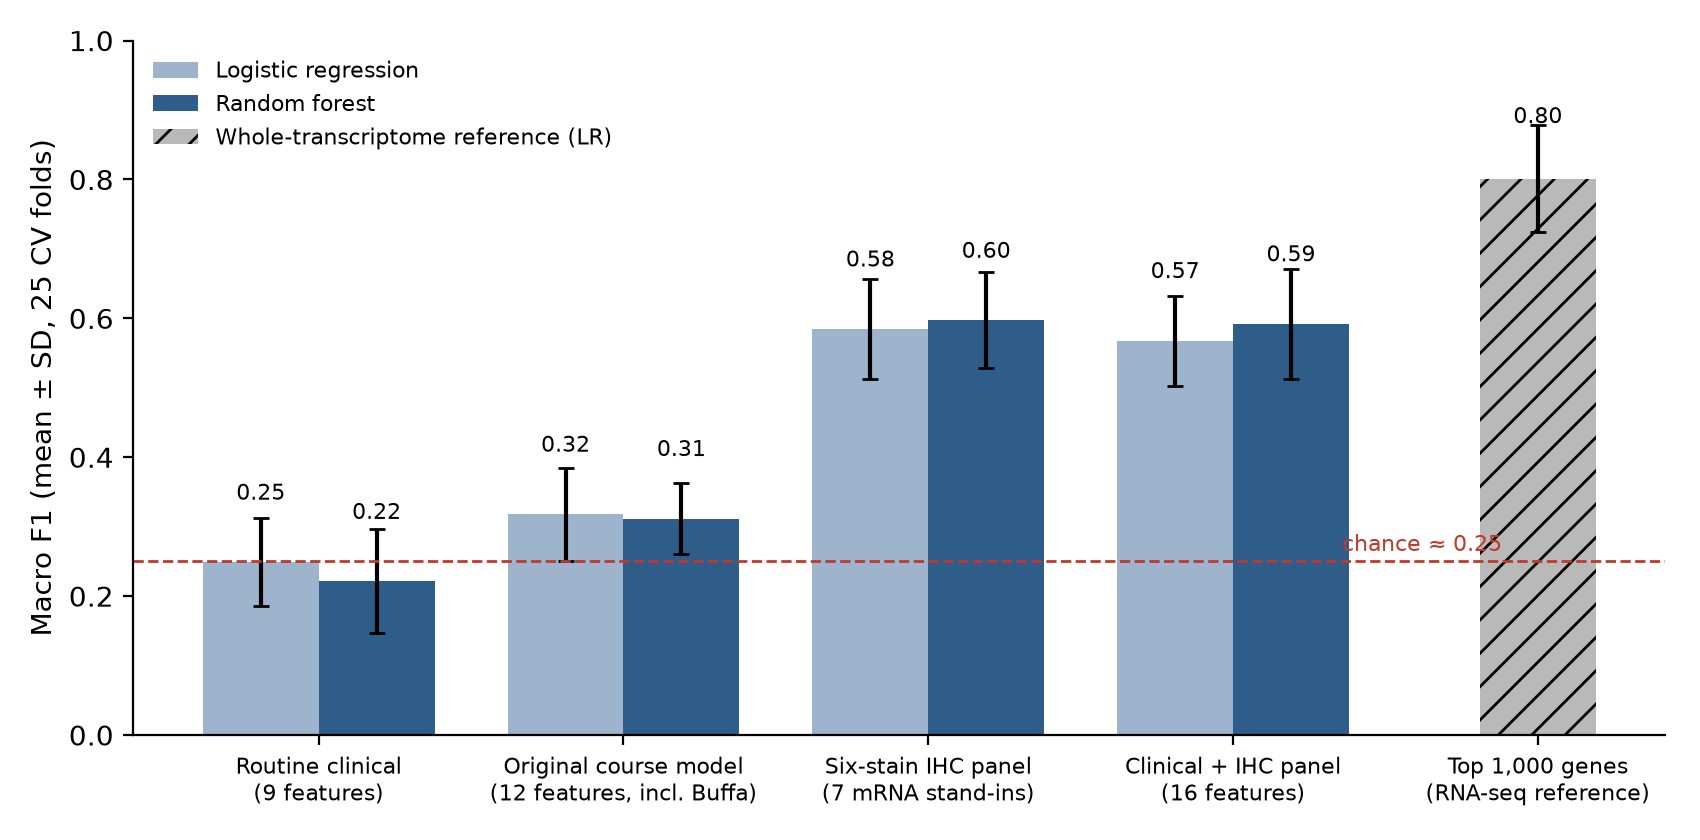
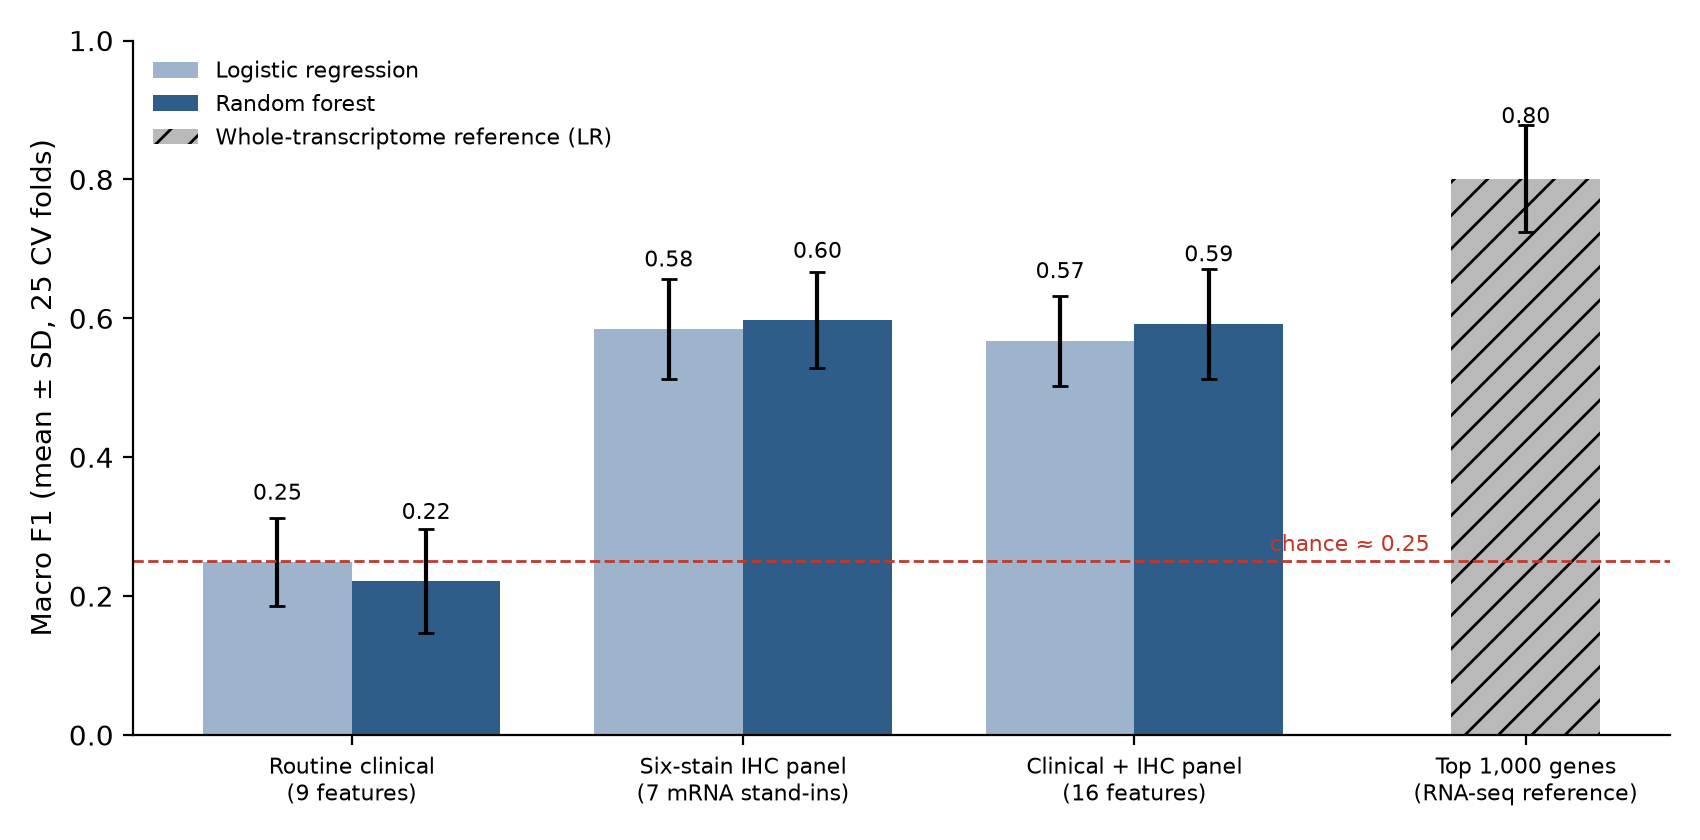
Focus pipeline on the paper's three models; original 12-feature version kept at tag v1-course-project

diff --git a/src/supplementary.py b/src/supplementary.py
@@ -44,7 +44,7 @@ STAIN = {"IHC_AR": "AR", "IHC_FOXA1": "FOXA1", "IHC_MKI67": "Ki-67", "IHC_KRT5":
          "IHC_KRT6A": "CK6 (KRT6A)", "IHC_EGFR": "EGFR", "IHC_VIM": "Vimentin"}
 rcv = RepeatedStratifiedKFold(n_splits=5, n_repeats=5, random_state=SEED)
 cv5 = StratifiedKFold(n_splits=5, shuffle=True, random_state=SEED)
-which = sys.argv[1:] or ["table1", "oof", "binary", "coarse", "single", "rna", "orig_ihc", "ck56", "detail", "markers", "perm"]
+which = sys.argv[1:] or ["table1", "oof", "binary", "coarse", "single", "rna", "ck56", "detail", "markers", "perm"]
 
 
 def rf_pipe(cols, binner=None):
@@ -127,7 +127,7 @@ if "table1" in which:
 if "oof" in which:
     res, cms = {}, {}
     rng = np.random.default_rng(SEED)
-    for fs in ["clinical_original", "clinical", "ihc_panel", "clinical_ihc"]:
+    for fs in ["clinical", "ihc_panel", "clinical_ihc"]:
         pipe, cols = make_pipeline(fs, "random_forest", params)
         pred = cross_val_predict(pipe, data[cols], y, cv=cv5)
         rep = classification_report(y, pred, labels=SUB, output_dict=True, zero_division=0)
@@ -147,9 +147,8 @@ if "oof" in which:
         cms[fs] = confusion_matrix(y, pred, labels=SUB)
     (OUT / "oof_per_class.json").write_text(json.dumps(res, indent=2))
     print(json.dumps(res, indent=2))
-    fig, axes = plt.subplots(1, 3, figsize=(13, 4))
-    titles = {"clinical_original": "A. Original 12 clinical features", "clinical": "B. Routine clinical (9)",
-              "ihc_panel": "C. Six-stain IHC panel"}
+    fig, axes = plt.subplots(1, 2, figsize=(9, 4))
+    titles = {"clinical": "A. Routine clinical (9 features)", "ihc_panel": "B. Six-stain IHC panel"}
     for ax, fs in zip(axes, titles):
         cm = cms[fs]; norm = cm / cm.sum(axis=1, keepdims=True)
         annot = np.array([[f"{norm[i,j]:.2f}\n(n={cm[i,j]})" for j in range(4)] for i in range(4)])
@@ -219,17 +218,6 @@ if "rna" in which:
                      **cv_f1(pipe, X.values)})
     r = pd.DataFrame(rows); r.to_csv(OUT / "rna_reference.csv", index=False); print(r.to_string())
 
-# ---------------------------------------------------------------- original 12 clinical features + IHC panel
-if "orig_ihc" in which:
-    f = params["features"]
-    num = f["clinical_numeric"] + f["original_extra_numeric"] + IHC
-    cat = f["clinical_categorical"] + f["original_extra_categorical"]
-    rows = []
-    for m in ["logistic_regression", "random_forest"]:
-        pipe = Pipeline([("prep", preprocessor(num, cat)), ("model", make_model(m, params))])
-        rows.append({"feature_set": "clinical_original_ihc", "model": m, **cv_f1(pipe, data[num + cat])})
-    o = pd.DataFrame(rows); o.to_csv(OUT / "original12_plus_ihc.csv", index=False); print(o.to_string())
-
 # ---------------------------------------------------------------- CK5/6 as one stain: combine KRT5 + KRT6A
 if "ck56" in which:
     X7 = data[IHC]
@@ -297,7 +285,7 @@ if "markers" in which:
 # ---------------------------------------------------------------- permutation tests
 if "perm" in which:
     rows = []
-    for fs in ["clinical", "clinical_original", "ihc_panel"]:
+    for fs in ["clinical", "ihc_panel"]:
         pipe, cols = make_pipeline(fs, "random_forest", params)
         score, perm, p = permutation_test_score(pipe, data[cols], y, cv=cv5, scoring="f1_macro",
                                                 n_permutations=100, random_state=SEED)

diff --git a/src/manuscript_figures.py b/src/manuscript_figures.py
@@ -15,9 +15,8 @@ plt.rcParams.update({"font.family": "DejaVu Sans", "font.size": 10})
 # Figure: macro F1 by feature set and model, with transcriptome reference
 cv = pd.read_csv(METRICS / "cv_results.csv")
 rna = pd.read_csv(S / "rna_reference.csv").iloc[0]
-names = {"clinical": "Routine clinical\n(9 features)", "clinical_original": "Original course model\n(12 features, incl. Buffa)",
-         "ihc_panel": "Six-stain IHC panel\n(7 mRNA stand-ins)", "clinical_ihc": "Clinical + IHC panel\n(16 features)"}
-order = ["clinical", "clinical_original", "ihc_panel", "clinical_ihc"]
+names = {"clinical": "Routine clinical\n(9 features)", "ihc_panel": "Six-stain IHC panel\n(7 mRNA stand-ins)", "clinical_ihc": "Clinical + IHC panel\n(16 features)"}
+order = ["clinical", "ihc_panel", "clinical_ihc"]
 fig, ax = plt.subplots(figsize=(8.5, 4.2))
 x = np.arange(len(order) + 1)
 w = 0.38
@@ -30,7 +29,7 @@ for k, (m, col, lab) in enumerate([("logistic_regression", "#9db4cc", "Logistic 
 ax.bar(x[-1], rna.f1_macro_mean, w, yerr=rna.f1_macro_sd, capsize=3, color="#b9b9b9", hatch="//", label="Whole-transcriptome reference (LR)")
 ax.text(x[-1], rna.f1_macro_mean + 0.08, f"{rna.f1_macro_mean:.2f}", ha="center", fontsize=8)
 ax.axhline(0.25, ls="--", color="#c0392b", lw=1)
-ax.text(3.62, 0.265, "chance ≈ 0.25", color="#c0392b", fontsize=8, ha="center")
+ax.text(2.55, 0.265, "chance ≈ 0.25", color="#c0392b", fontsize=8, ha="center")
 ax.set_xticks(x); ax.set_xticklabels([names[o] for o in order] + ["Top 1,000 genes\n(RNA-seq reference)"], fontsize=8)
 ax.set_ylabel("Macro F1 (mean ± SD, 25 CV folds)"); ax.set_ylim(0, 1)
 ax.legend(fontsize=8, loc="upper left", frameon=False)

diff --git a/src/prepare.py b/src/prepare.py
@@ -1,7 +1,6 @@
 """Stage: prepare
 Raw files -> one modeling table (data/processed/dataset.parquet):
-Lehmann subtype labels + clinical features (9 routine + 3 used only by the original
-12-feature version) + 7 IHC stand-in genes.
+Lehmann subtype labels + 9 routine clinical features + 7 IHC stand-in genes.
 """
 import json
 
@@ -23,11 +22,9 @@ def load_labels(subtypes):
 
 def load_clinical(params):
     f = params["features"]
-    num = f["clinical_numeric"] + f["original_extra_numeric"]
-    cat = f["clinical_categorical"] + f["original_extra_categorical"]
+    num = f["clinical_numeric"]
+    cat = f["clinical_categorical"]
     clin = pd.read_csv(RAW / "tcga_brca_clinical_patient.txt", sep="\t", comment="#").set_index("PATIENT_ID")
-    hyp = pd.read_csv(RAW / "tcga_brca_hypoxia.txt", sep="\t", comment="#").set_index("PATIENT_ID")
-    clin = clin.join(hyp[["BUFFA_HYPOXIA_SCORE"]])
     clin = clin[num + cat].copy()
     clin[num] = clin[num].apply(pd.to_numeric, errors="coerce")
     clin[cat] = clin[cat].astype("string")

diff --git a/src/common.py b/src/common.py
@@ -28,7 +28,7 @@ def ihc_columns(params):
 
 def categorical_columns(params):
     f = params["features"]
-    return f["clinical_categorical"] + f["original_extra_categorical"]
+    return f["clinical_categorical"]
 
 
 def feature_sets(params):
@@ -37,8 +37,6 @@ def feature_sets(params):
     num, cat = f["clinical_numeric"], f["clinical_categorical"]
     ihc = ihc_columns(params)
     return {
-        # Original course version: 12 clinical features incl. Buffa hypoxia (mRNA-derived)
-        "clinical_original": (num + f["original_extra_numeric"], cat + f["original_extra_categorical"]),
         # Routine clinical features only (9)
         "clinical": (num, cat),
         "ihc_panel": (ihc, []),

diff --git a/src/download_data.py b/src/download_data.py
@@ -13,7 +13,7 @@ DATAHUB = ("https://media.githubusercontent.com/media/cBioPortal/datahub/master/
 FILES = {
     "tcga_brca_clinical_patient.txt": DATAHUB + "data_clinical_patient.txt",
     "tcga_brca_mrna_rsem.txt": DATAHUB + "data_mrna_seq_v2_rsem.txt",  # ~150 MB
-    "tcga_brca_hypoxia.txt": DATAHUB + "data_clinical_supp_hypoxia.txt",  # Buffa score (original version only)
+    "tcga_brca_hypoxia.txt": DATAHUB + "data_clinical_supp_hypoxia.txt",  # Buffa hypoxia score (used only at tag v1-course-project)
 }
 S1_URL = ("https://journals.plos.org/plosone/article/file?type=supplementary"
           "&id=10.1371/journal.pone.0157368.s006")

diff --git a/README.md b/README.md
@@ -6,16 +6,16 @@ Can triple-negative breast cancer (TNBC) be subtyped without tumor sequencing? T
 
 | Features | Best macro F1 |
 |---|---|
-| Original course version (12 clinical features, incl. Buffa hypoxia score) | ~0.34 |
 | Routine clinical only (9 features) | ~0.27, about chance (0.25) |
 | IHC panel (6 stains, mRNA stand-ins) | ~0.60 |
 | Clinical + IHC panel | ~0.60 |
 
-- **Original version:** my course project reached macro F1 0.36 on a single test split (~0.34 here with repeated CV). Most of that signal came from the Buffa hypoxia score, which is calculated from tumor mRNA, so it is not a routine clinical measurement.
 - Routine clinical data alone cannot identify subtypes. The IHC panel roughly doubles macro F1.
 - LAR and BL1 are identified best. BL2 and M remain hard to separate.
 - Vimentin is the one stain whose removal clearly hurts performance (macro F1 drops ~0.06). Removing any other stain changes it by 0.02 or less, because the stains overlap (e.g., AR and FOXA1 both mark LAR).
 - **Limitation:** TCGA has no results for these stains, so each stain is represented by the tumor's mRNA level for the matching gene. Real IHC is scored more coarsely, so real-world performance would likely be lower.
+
+- **Original course project:** the first version of this analysis, which also trained a 12-feature clinical model (including the mRNA-derived Buffa hypoxia score), is preserved at git tag [`v1-course-project`](../../tree/v1-course-project). The current pipeline matches the manuscript: routine clinical (9 features), the six-stain IHC panel, and both combined.
 
 ## Project structure
 
